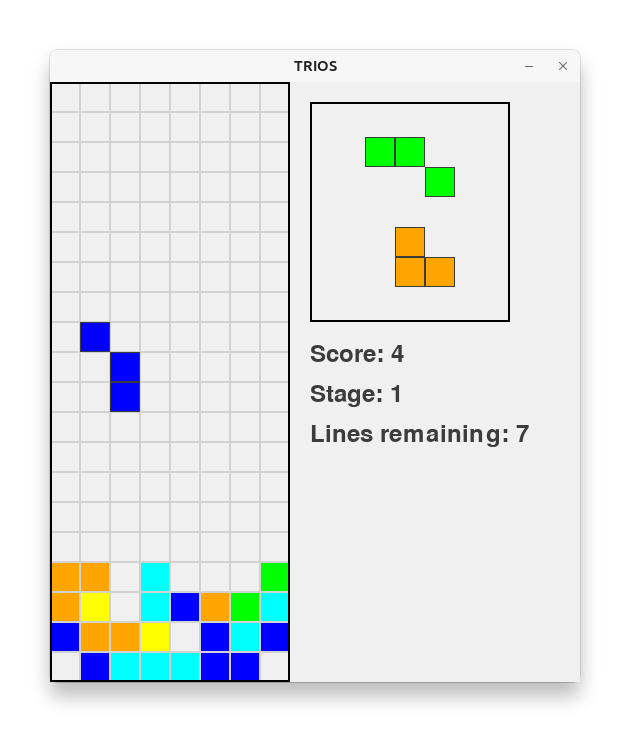
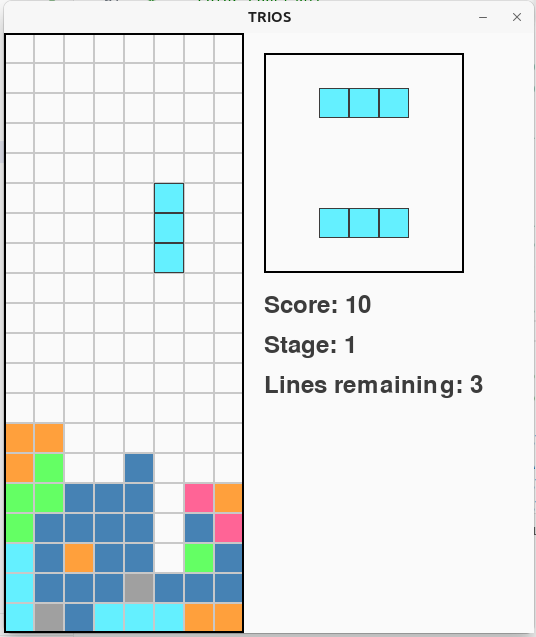
feat: update piece and gap fill colors for improved contrast

Changed region(s): [[0.0, 0.0, 1.0, 1.0]]

diff --git a/trios.py b/trios.py
@@ -2,9 +2,11 @@
 """
 TRIOS - A Triomino Falling-Block Game
 
-This module implements a Tetris-like game using triomino pieces with Pygame.
-It includes features such as increasing falling speed, stages based on the number of lines cleared,
-a preview of the next two pieces, pause/resume functionality, and a stage border.
+TRIOS is a falling-block puzzle game featuring triomino pieces (three connected squares)
+that offers a unique twist on the classic Tetris formula. Pieces fall on an 8×22 grid
+(with the top 2 rows hidden), and players clear lines to progress through stages. The game
+includes a preview of the next two pieces, dynamic scoring with combo multipliers, and
+increasing falling speed.
 
 Author: Toshihiro Kamiya (kamiya@mbj.nifty.com)
 """
@@ -12,7 +14,7 @@ Author: Toshihiro Kamiya (kamiya@mbj.nifty.com)
 import pygame
 import random
 import sys
-from typing import List, Tuple, Optional
+from typing import List, Optional, Tuple
 
 # --- Constants ---
 BLOCK_SIZE: int = 30
@@ -30,9 +32,9 @@ FPS: int = 60
 
 # Preview area constants
 PREVIEW_MARGIN: int = 20
-PREVIEW_BOX_WIDTH: int = 200  # Width of the preview box
+PREVIEW_BOX_WIDTH: int = 200   # Width of preview boxes
 PREVIEW_BOX_HEIGHT: int = 100
-PREVIEW_EXTRA: int = 50       # Additional margin on the right
+PREVIEW_EXTRA: int = 50        # Additional margin on the right
 
 # Extended window width to accommodate the preview area
 WINDOW_WIDTH_EXTENDED: int = WINDOW_WIDTH + PREVIEW_MARGIN * 2 + PREVIEW_BOX_WIDTH + PREVIEW_EXTRA
@@ -43,7 +45,7 @@ MIN_FALL_DELAY: int = 100      # Minimum falling delay (ms)
 
 def get_initial_fall_delay(stage: int) -> int:
     """
-    Calculate the initial falling delay based on the stage.
+    Calculate the initial falling delay based on the current stage.
 
     Args:
         stage (int): The current stage number.
@@ -57,32 +59,33 @@ def get_initial_fall_delay(stage: int) -> int:
 STAGE_CLEAR_FACTOR: int = 10
 
 # --- Color Constants ---
-BG_COLOR: Tuple[int, int, int] = (240, 240, 240)          # Background: light gray
-GRID_LINE_COLOR: Tuple[int, int, int] = (210, 210, 210)     # Grid lines: very light gray
-PIECE_BORDER_COLOR: Tuple[int, int, int] = (60, 60, 60)     # Piece borders: dark gray
-TEXT_COLOR: Tuple[int, int, int] = (60, 60, 60)             # Text: dark gray
-STAGE_BORDER_COLOR: Tuple[int, int, int] = (0, 0, 0)        # Field border: black
+BG_COLOR: Tuple[int, int, int] = (250, 250, 250)          # Background
+GRID_LINE_COLOR: Tuple[int, int, int] = (200, 200, 200)     # Grid lines
+PIECE_BORDER_COLOR: Tuple[int, int, int] = (60, 60, 60)     # Piece borders
+TEXT_COLOR: Tuple[int, int, int] = (60, 60, 60)             # Text color
+STAGE_BORDER_COLOR: Tuple[int, int, int] = (0, 0, 0)        # Field border
+GAP_FILL_COLOR: Tuple[int, int, int] = (160, 160, 160)      # Gap fill color
 
-# Colors for pieces
-CYAN: Tuple[int, int, int] = (0, 255, 255)
-MAGENTA: Tuple[int, int, int] = (255, 0, 255)
-ORANGE: Tuple[int, int, int] = (255, 165, 0)
-GREEN: Tuple[int, int, int] = (0, 255, 0)
-BLUE: Tuple[int, int, int] = (0, 0, 255)
-YELLOW: Tuple[int, int, int] = (255, 255, 0)
+# --- Pastel Piece Colors ---
+PASTEL_CYAN: Tuple[int, int, int] = (100, 240, 255)
+PASTEL_MAGENTA: Tuple[int, int, int] = (255, 100, 150)
+PASTEL_ORANGE: Tuple[int, int, int] = (255, 160, 60)
+PASTEL_GREEN: Tuple[int, int, int] = (100, 255, 100)
+PASTEL_BLUE: Tuple[int, int, int] = (70, 130, 180)
+PASTEL_YELLOW: Tuple[int, int, int] = (255, 230, 0)
 
 # --- Triomino Shape Definitions ---
-# Each shape is defined as (name, relative block positions, color).
-# Relative positions are defined with respect to the pivot (0,0).
+# Each shape is defined as (name, [relative positions], color).
+# The relative positions are defined with respect to the pivot (0,0).
 shapes: List[Tuple[str, List[Tuple[int, int]], Tuple[int, int, int]]] = [
-    ("I",       [(-1, 0), (0, 0), (1, 0)], CYAN),
-    ("slash",   [(-1, -1), (0, 0), (1, 1)], MAGENTA),
-    ("L",       [(0, -1), (0, 0), (1, 0)], ORANGE),
-    ("small_r", [(-1, 0), (0, 0), (1, 1)], GREEN),
-    ("mirror_r",[ (1, 0), (0, 0), (-1, 1)], BLUE),
-    ("v",       [(-1, 0), (1, 0), (0, 1)], YELLOW)
+    ("I",       [(-1, 0), (0, 0), (1, 0)], PASTEL_CYAN),
+    ("slash",   [(-1, -1), (0, 0), (1, 1)], PASTEL_MAGENTA),
+    ("L",       [(0, -1), (0, 0), (1, 0)], PASTEL_ORANGE),
+    ("small_r", [(-1, 0), (0, 0), (1, 1)], PASTEL_GREEN),
+    ("mirror_r",[ (1, 0), (0, 0), (-1, 1)], PASTEL_BLUE),
+    ("v",       [(-1, 0), (1, 0), (0, 1)], PASTEL_YELLOW)
 ]
-# Weighting for piece appearance: "slash" and "v" have weight 1; others have weight 3.
+# Weighting for appearance: "slash" and "v" get weight 1; others 3.
 shape_weights: List[int] = [3, 1, 3, 3, 3, 1]
 
 # --- Piece Class ---
@@ -99,7 +102,7 @@ class Piece:
     """
     def __init__(self, shape: Tuple[str, List[Tuple[int, int]], Tuple[int, int, int]], grid_x: int, grid_y: int) -> None:
         self.name: str = shape[0]
-        self.blocks: List[Tuple[int, int]] = shape[1][:]  # Copy of relative block positions
+        self.blocks: List[Tuple[int, int]] = shape[1][:]
         self.color: Tuple[int, int, int] = shape[2]
         self.x: int = grid_x
         self.y: int = grid_y
@@ -115,17 +118,16 @@ class Piece:
 
     def rotate(self) -> List[Tuple[int, int]]:
         """
-        Get the new relative block positions after a 90-degree clockwise rotation.
+        Compute the new relative block positions after a 90° clockwise rotation.
 
         Returns:
             List[Tuple[int, int]]: The new relative positions.
         """
-        new_blocks = [(by, -bx) for (bx, by) in self.blocks]
-        return new_blocks
+        return [(by, -bx) for (bx, by) in self.blocks]
 
     def apply_rotation(self, new_blocks: List[Tuple[int, int]]) -> None:
         """
-        Update the piece's blocks with new relative positions after rotation.
+        Update the piece's block positions after rotation.
 
         Args:
             new_blocks (List[Tuple[int, int]]): The new relative positions.
@@ -135,26 +137,26 @@ class Piece:
 # --- Grid Functions ---
 def create_grid() -> List[List[Optional[Tuple[int, int, int]]]]:
     """
-    Create and initialize the game grid.
+    Initialize the game grid.
 
     Returns:
-        List[List[Optional[Tuple[int, int, int]]]]: A 2D list representing the grid.
+        List[List[Optional[Tuple[int, int, int]]]]: A 2D grid where each cell is either a color tuple or None.
     """
     return [[None for _ in range(GRID_WIDTH)] for _ in range(GRID_HEIGHT)]
 
-def valid_position(piece: Piece, grid: List[List[Optional[Tuple[int, int, int]]]], 
+def valid_position(piece: Piece, grid: List[List[Optional[Tuple[int, int, int]]]],
                    block_positions: Optional[List[Tuple[int, int]]] = None) -> bool:
     """
-    Check if the piece's blocks are within the grid and in empty cells.
+    Check if the piece's block positions are valid (inside the grid and on empty cells).
     Cells with negative y-values (above the visible area) are ignored.
 
     Args:
         piece (Piece): The piece to check.
         grid (List[List[Optional[Tuple[int, int, int]]]]): The game grid.
-        block_positions (Optional[List[Tuple[int, int]]]): Optional list of positions to check.
+        block_positions (Optional[List[Tuple[int, int]]]): Optional positions to check.
 
     Returns:
-        bool: True if the position is valid, False otherwise.
+        bool: True if valid, False otherwise.
     """
     if block_positions is None:
         block_positions = piece.get_block_positions()
@@ -169,7 +171,7 @@ def valid_position(piece: Piece, grid: List[List[Optional[Tuple[int, int, int]]]
 
 def add_piece_to_grid(piece: Piece, grid: List[List[Optional[Tuple[int, int, int]]]]) -> None:
     """
-    Place the piece onto the grid permanently.
+    Fix the piece onto the grid.
 
     Args:
         piece (Piece): The piece to add.
@@ -187,7 +189,7 @@ def clear_full_lines(grid: List[List[Optional[Tuple[int, int, int]]]]) -> Tuple[
         grid (List[List[Optional[Tuple[int, int, int]]]]): The current grid.
 
     Returns:
-        Tuple[List[List[Optional[Tuple[int, int, int]]]], int]: A tuple containing the new grid and the number of cleared lines.
+        Tuple[List[List[Optional[Tuple[int, int, int]]]], int]: A tuple with the new grid and the number of cleared lines.
     """
     new_grid = [row for row in grid if None in row]
     num_cleared = len(grid) - len(new_grid)
@@ -198,23 +200,38 @@ def clear_full_lines(grid: List[List[Optional[Tuple[int, int, int]]]]) -> Tuple[
 # --- Drawing Functions ---
 def draw_grid(surface: pygame.Surface, grid: List[List[Optional[Tuple[int, int, int]]]]) -> None:
     """
-    Draw the game grid and the placed blocks.
+    Draw the game grid along with fixed blocks. For each column, determine the topmost fixed block 
+    (ignoring falling pieces), and then fill every empty cell below that position with GAP_FILL_COLOR 
+    to indicate a gap.
 
     Args:
         surface (pygame.Surface): The drawing surface.
         grid (List[List[Optional[Tuple[int, int, int]]]]): The game grid.
     """
+    # For each column, compute the topmost fixed cell (if any) in the visible area.
+    top_filled_by_column: List[Optional[int]] = [None] * GRID_WIDTH
+    for x in range(GRID_WIDTH):
+        for y in range(VISIBLE_ROW_OFFSET, GRID_HEIGHT):
+            if grid[y][x] is not None:
+                top_filled_by_column[x] = y
+                break
+
+    # Draw each cell in the visible area.
     for y in range(VISIBLE_ROW_OFFSET, GRID_HEIGHT):
         for x in range(GRID_WIDTH):
-            # Calculate drawing rectangle (shifted upward by VISIBLE_ROW_OFFSET rows)
             rect = pygame.Rect(x * BLOCK_SIZE, (y - VISIBLE_ROW_OFFSET) * BLOCK_SIZE, BLOCK_SIZE, BLOCK_SIZE)
             if grid[y][x] is not None:
+                # Draw the fixed block.
                 pygame.draw.rect(surface, grid[y][x], rect)
-            pygame.draw.rect(surface, GRID_LINE_COLOR, rect, 1)  # Draw thin grid lines
+            else:
+                # If there is a fixed block in this column and this row is below (or equal to) that topmost fixed block, fill the gap.
+                if top_filled_by_column[x] is not None and y >= top_filled_by_column[x]:
+                    pygame.draw.rect(surface, GAP_FILL_COLOR, rect)
+            pygame.draw.rect(surface, GRID_LINE_COLOR, rect, 1)
 
 def draw_piece(surface: pygame.Surface, piece: Piece) -> None:
     """
-    Draw the active piece on the surface.
+    Draw the active (falling) piece on the surface.
 
     Args:
         surface (pygame.Surface): The drawing surface.
@@ -224,11 +241,11 @@ def draw_piece(surface: pygame.Surface, piece: Piece) -> None:
         if y >= VISIBLE_ROW_OFFSET:
             rect = pygame.Rect(x * BLOCK_SIZE, (y - VISIBLE_ROW_OFFSET) * BLOCK_SIZE, BLOCK_SIZE, BLOCK_SIZE)
             pygame.draw.rect(surface, piece.color, rect)
-            pygame.draw.rect(surface, PIECE_BORDER_COLOR, rect, 1)  # Draw piece borders
+            pygame.draw.rect(surface, PIECE_BORDER_COLOR, rect, 1)
 
 def draw_stage_border(surface: pygame.Surface) -> None:
     """
-    Draw the border around the visible field.
+    Draw a border around the visible game field.
 
     Args:
         surface (pygame.Surface): The drawing surface.
@@ -238,7 +255,7 @@ def draw_stage_border(surface: pygame.Surface) -> None:
 
 def draw_preview_box(surface: pygame.Surface, piece: Piece, box_rect: pygame.Rect) -> None:
     """
-    Draw a preview of a piece within a given box.
+    Draw a preview of a piece within a specified rectangle.
 
     Args:
         surface (pygame.Surface): The drawing surface.
@@ -256,22 +273,22 @@ def draw_preview_box(surface: pygame.Surface, piece: Piece, box_rect: pygame.Rec
 
 def draw_previews(surface: pygame.Surface, next_piece: Piece, next_next_piece: Piece) -> None:
     """
-    Draw the next two pieces in preview boxes on the right side.
+    Draw the next two pieces in preview boxes on the right side of the window.
 
     Args:
         surface (pygame.Surface): The drawing surface.
         next_piece (Piece): The next piece.
-        next_next_piece (Piece): The piece after the next.
+        next_next_piece (Piece): The piece following the next.
     """
     preview_x = WINDOW_WIDTH + PREVIEW_MARGIN
 
-    # Draw upper preview box with next_next_piece
+    # Upper preview box shows next_next_piece.
     box1_rect = pygame.Rect(preview_x, PREVIEW_MARGIN, PREVIEW_BOX_WIDTH, PREVIEW_BOX_HEIGHT)
     draw_preview_box(surface, next_next_piece, box1_rect)
-    # Draw lower preview box with next_piece
+    # Lower preview box shows next_piece.
     box2_rect = pygame.Rect(preview_x, PREVIEW_MARGIN + PREVIEW_BOX_HEIGHT + PREVIEW_MARGIN, PREVIEW_BOX_WIDTH, PREVIEW_BOX_HEIGHT)
     draw_preview_box(surface, next_piece, box2_rect)
-    # Draw outer border around preview area
+    # Draw an outer border around the preview area.
     box_rect = pygame.Rect(preview_x, PREVIEW_MARGIN, PREVIEW_BOX_WIDTH, PREVIEW_BOX_HEIGHT * 2 + PREVIEW_MARGIN)
     pygame.draw.rect(surface, STAGE_BORDER_COLOR, box_rect, 2)
 
@@ -283,7 +300,7 @@ def draw_info(surface: pygame.Surface, score: int, stage: int, lines_to_clear: i
         surface (pygame.Surface): The drawing surface.
         score (int): The current score.
         stage (int): The current stage.
-        lines_to_clear (int): The number of lines remaining to clear for the stage.
+        lines_to_clear (int): The number of lines remaining to clear for stage advancement.
     """
     font = pygame.font.SysFont(None, 36)
     text_score = font.render("Score: " + str(score), True, TEXT_COLOR)
@@ -340,7 +357,7 @@ def main() -> None:
     current_piece: Piece = next_piece
     current_piece.x = GRID_WIDTH // 2
     current_piece.y = 1
-    # Update preview: next_piece becomes next_next_piece, and generate a new next_next_piece
+    # Update preview: next_piece becomes next_next_piece, then generate a new next_next_piece
     next_piece = next_next_piece
     next_next_piece = Piece(random.choices(shapes, weights=shape_weights, k=1)[0], GRID_WIDTH // 2, 1)
 
@@ -350,21 +367,17 @@ def main() -> None:
     while running:
         clock.tick(FPS)
         for event in pygame.event.get():
-            # Handle quit events
             if event.type == pygame.QUIT:
                 running = False
             elif event.type == pygame.KEYDOWN:
-                # Toggle pause with 'P'
                 if event.key == pygame.K_p:
                     paused = not paused
-                # Quit with 'Q' or Escape
                 elif event.key == pygame.K_q or event.key == pygame.K_ESCAPE:
                     running = False
 
                 if paused:
-                    continue  # Ignore other controls when paused
+                    continue
 
-                # Process movement and rotation controls
                 if event.key == pygame.K_LEFT:
                     new_positions = [(x - 1, y) for (x, y) in current_piece.get_block_positions()]
                     if valid_position(current_piece, grid, new_positions):
@@ -383,7 +396,6 @@ def main() -> None:
                     if valid_position(current_piece, grid, rotated_positions):
                         current_piece.apply_rotation(new_blocks)
                 elif event.key == pygame.K_SPACE:
-                    # Hard drop: move piece down until it hits something
                     while valid_position(current_piece, grid):
                         current_piece.y += 1
                     current_piece.y -= 1
@@ -396,20 +408,17 @@ def main() -> None:
                     else:
                         combo_multiplier = 1
 
-                    # Gradually decrease the fall delay (by 2ms per piece)
                     fall_delay = max(MIN_FALL_DELAY, fall_delay - 2)
                     pygame.time.set_timer(fall_event, fall_delay)
 
-                    # Stage clear check
                     if lines_cleared_stage >= stage_threshold:
                         grid = create_grid()  # Clear the field
-                        lines_cleared_stage -= stage_threshold  # Carry over extra lines
+                        lines_cleared_stage -= stage_threshold
                         stage += 1
                         stage_threshold = stage * STAGE_CLEAR_FACTOR
                         fall_delay = get_initial_fall_delay(stage)
                         pygame.time.set_timer(fall_event, fall_delay)
 
-                    # Set next piece
                     current_piece = next_piece
                     current_piece.x = GRID_WIDTH // 2
                     current_piece.y = 1
@@ -454,13 +463,11 @@ def main() -> None:
                         print("Game Over. Final Score:", score)
                         running = False
 
-        # Drawing phase
         screen.fill(BG_COLOR)
         draw_grid(screen, grid)
         draw_piece(screen, current_piece)
-        draw_stage_border(screen)  # Draw field border in black
+        draw_stage_border(screen)
         draw_previews(screen, next_piece, next_next_piece)
-        # Calculate remaining lines for stage clear
         lines_remaining = stage_threshold - lines_cleared_stage
         draw_info(screen, score, stage, lines_remaining)
         if paused:
